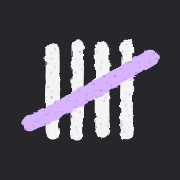
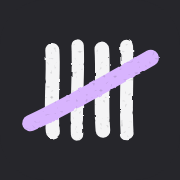
One chalk mark everywhere: calmer edges, a touch of grain
The app's mark and the favicon now use the same filter: less wobble on the edges (displacement
0.4, was 0.9) and a light grain. icon.svg carries the filter too, and favicon.ico and
apple-icon.png are rendered from it, so every logo matches.

Claude-Session: https://claude.ai/code/session_01X1tWh8f675shJeQvLtHTjk

diff --git a/src/components/shared/Logo/Logo.tsx b/src/components/shared/Logo/Logo.tsx
@@ -45,7 +45,8 @@ function BrandTransition({ children }: { children: ReactNode }) {
 
 /**
  * The tally's strokes, drawn by hand: each a little different in lean, bow and weight, with small
- * gaps (the dashes) where the chalk skipped. Shared with app/icon.svg, which draws the same paths.
+ * gaps (the dashes) where the chalk skipped. app/icon.svg draws the same
+ * paths with the same filter, so the favicon matches.
  */
 const STROKES = [
   { d: "M9.3 8.9C9.6 13.2 8.9 18.6 9.4 23.4", width: 2.5, skips: "5.2 .9 7 .7 30" },
@@ -88,7 +89,7 @@ export function LogoMark({ size = 28, className }: LogoProps) {
           <feDisplacementMap
             in="SourceGraphic"
             in2="n"
-            scale={0.9}
+            scale={0.4}
             xChannelSelector="R"
             yChannelSelector="G"
             result="rough"
@@ -97,7 +98,7 @@ export function LogoMark({ size = 28, className }: LogoProps) {
           <feColorMatrix
             in="grain"
             type="matrix"
-            values="0 0 0 0 0  0 0 0 0 0  0 0 0 0 0  0 0 0 -1.2 1.75"
+            values="0 0 0 0 0  0 0 0 0 0  0 0 0 0 0  0 0 0 -1.1 1.72"
             result="specks"
           />
           <feComposite in="rough" in2="specks" operator="in" />
